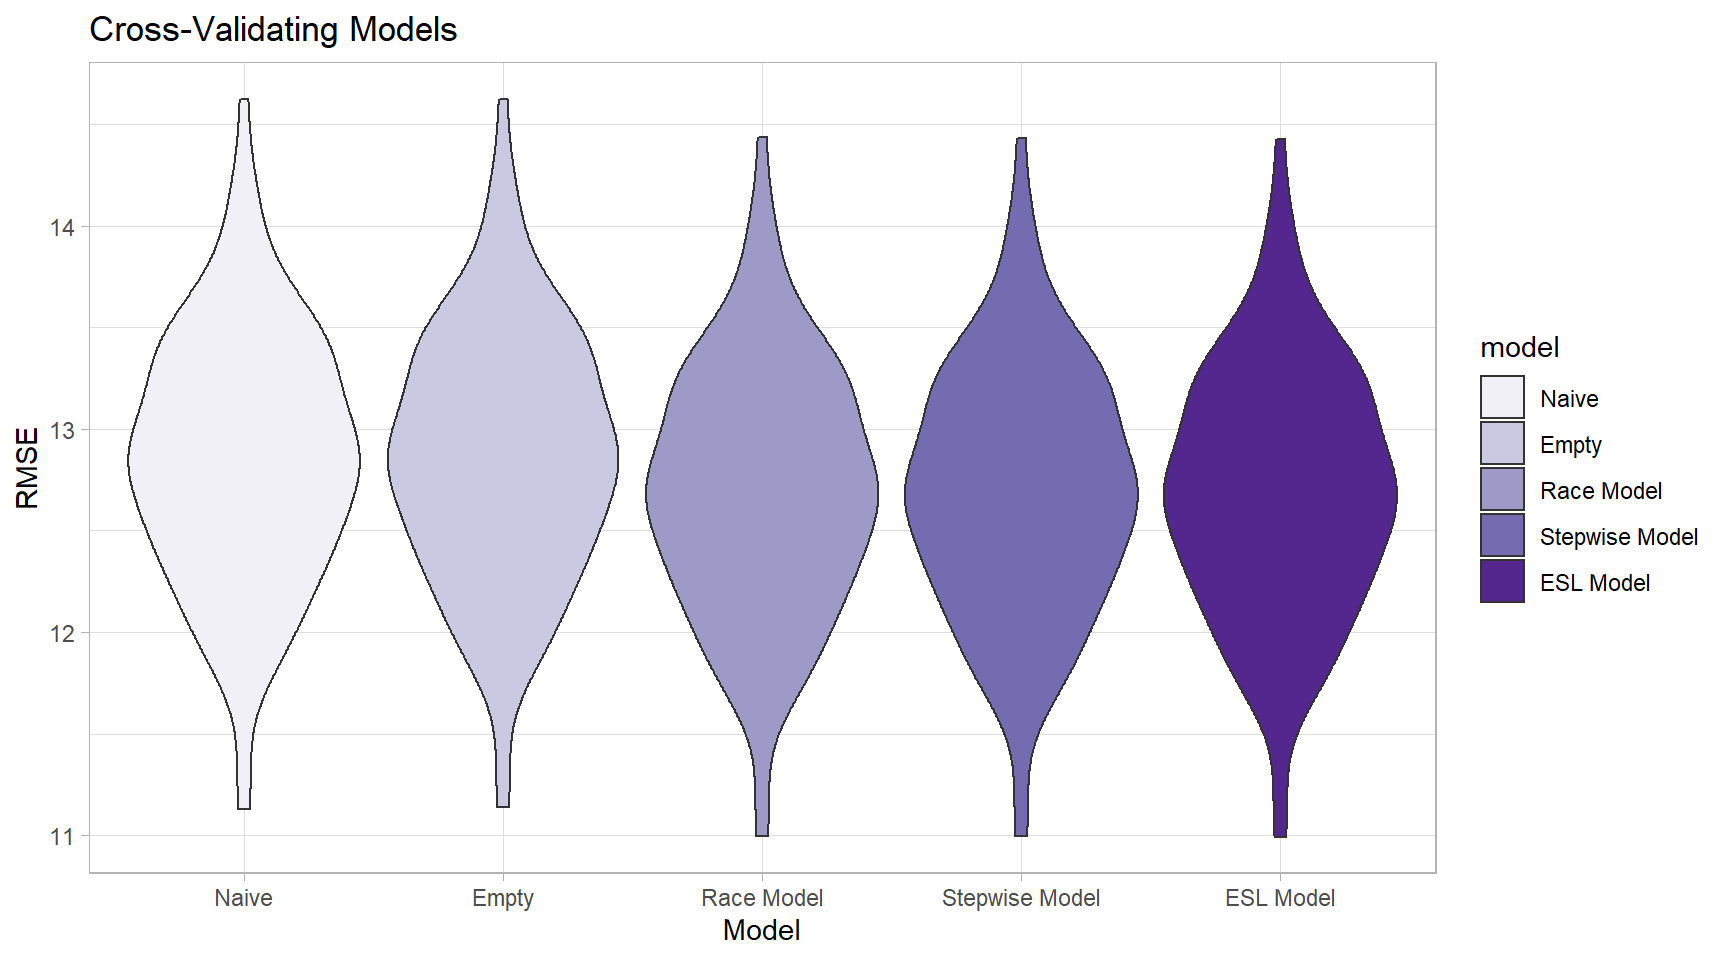
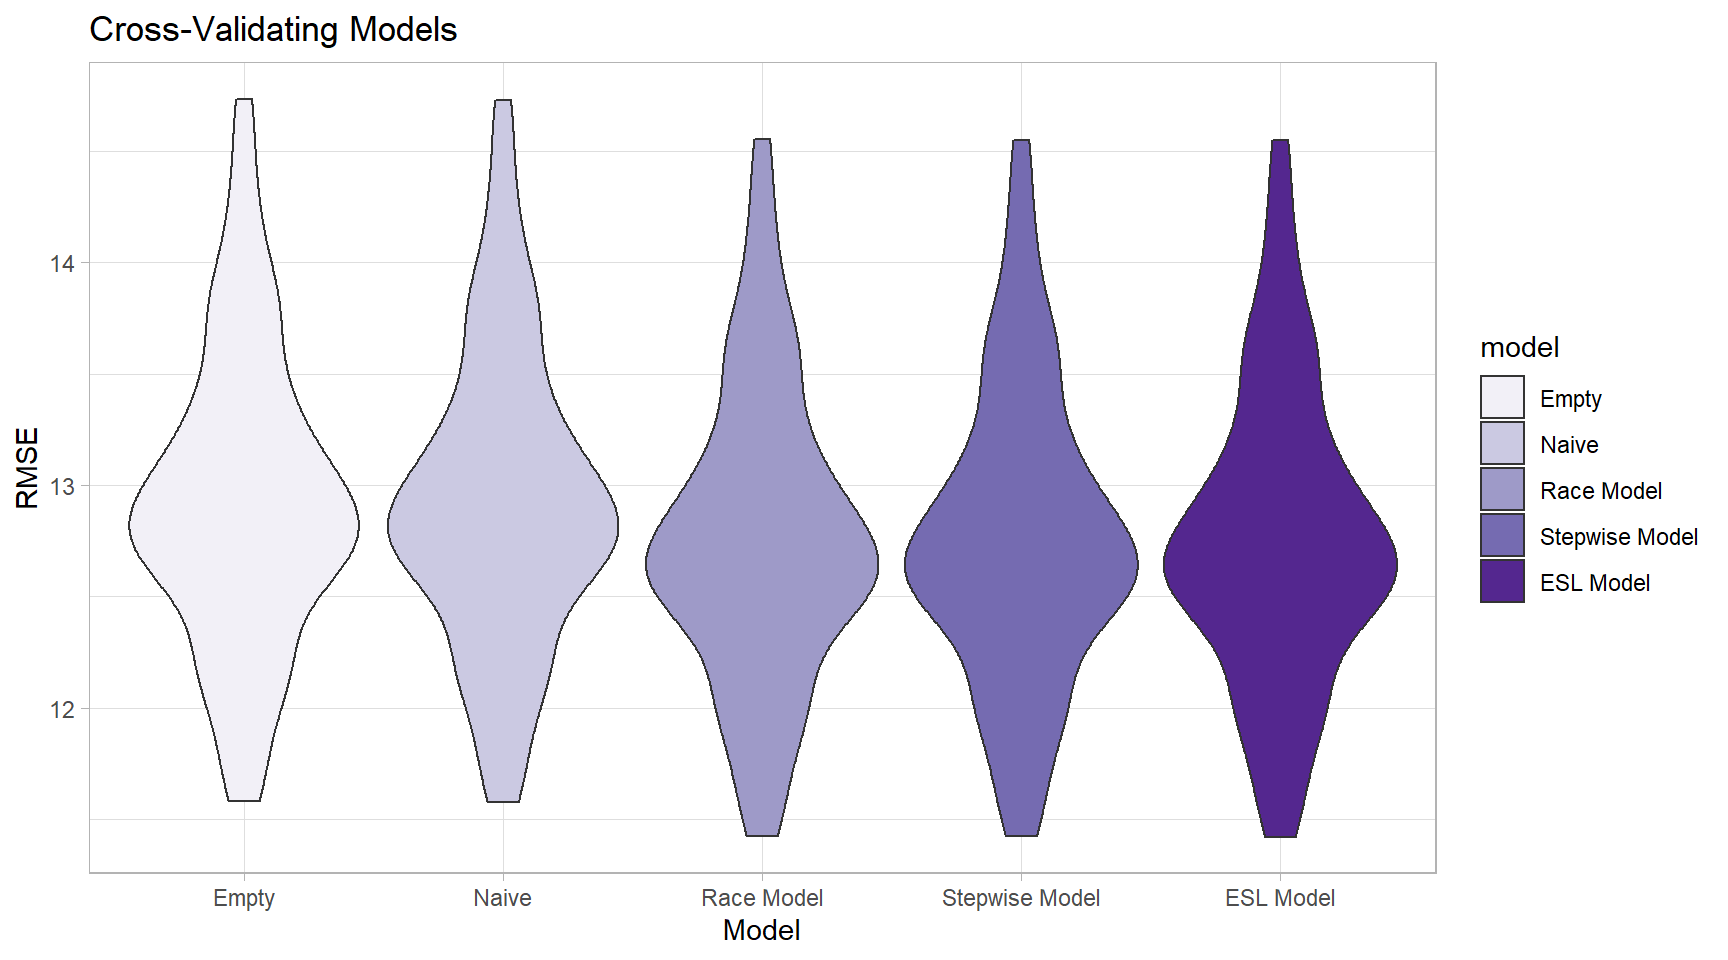
few changes including building site with model building section

diff --git a/model_building.html b/model_building.html
@@ -287,7 +287,7 @@ $(document).ready(function () {
   <a href="question_3_maps.html">What Predicts Eviction Rates?</a>
 </li>
 <li>
-  <a href="question_3.html">Model Building</a>
+  <a href="model_building.html">Model Building</a>
 </li>
       </ul>
       <ul class="nav navbar-nav navbar-right">
@@ -519,9 +519,11 @@ gee_stepper_o(full_fit, formula(full_fit)) ## customized function to automatical
 <div id="summary-of-models" class="section level2">
 <h2>Summary of models</h2>
 <p>To summarize, we will consider the following models to predict census tract-level eviction rates:</p>
-<p>Two hypothesized models: 1. A hypothesized model based primarily on percent ESL speakers [Equation 2, above] 2. A hypothesized model based primarily on independent effects of race/ethnicity percentages [Equation 3, above]</p>
-<ol start="3" style="list-style-type: decimal">
-<li>A model selected via a GEE-specific forward stepwise selection process</li>
+<p>Two hypothesized models:</p>
+<ol style="list-style-type: decimal">
+<li><p>A hypothesized model based primarily on percent ESL speakers [Equation 2, above]</p></li>
+<li><p>A hypothesized model based primarily on independent effects of race/ethnicity percentages [Equation 3, above]</p></li>
+<li><p>A model selected via a GEE-specific forward stepwise selection process</p></li>
 </ol>
 <p>In addition to these three models (1, 2, 3), we propose two baseline models:</p>
 <ol start="4" style="list-style-type: decimal">
@@ -584,7 +586,7 @@ step_model =
          data = joined_data_bklyn_nomissing, 
          id = geoid, 
          corstr = &quot;ar1&quot;)</code></pre>
-<pre class="r"><code>set.seed(12345)
+<pre class="r"><code>set.seed(2)
 
 ## creating test-training pairs
 model_data_cv =
@@ -629,13 +631,8 @@ model_data_cv =
 
  model_data_cv =
    model_data_cv %&gt;%
-   mutate(#rmse_empty_glm = map2_dbl(empty_glm1, test, ~rmse(model = .x, data = .y)),
-          #rmse_naive_glm = map2_dbl(naive_glm1, test, ~rmse(model = .x, data = .y)),
-          rmse_empty_gee = map2_dbl(empty, test, ~rmse(model = .x, data = .y)),
+   mutate(rmse_empty_gee = map2_dbl(empty, test, ~rmse(model = .x, data = .y)),
           rmse_naive_gee = map2_dbl(naive, test, ~rmse(model = .x, data = .y)),
-          #rmse_eng_glm = map2_dbl(glm_eng1, test, ~rmse(model = .x, data = .y)),
-          #rmse_race_glm = map2_dbl(glm_race1, test, ~rmse(model = .x, data = .y)),
-          #rmse_step_glm = map2_dbl(glm_step1, test, ~rmse(model = .x, data = .y)),
           rmse_eng_gee = map2_dbl(gee_eng, test, ~rmse(model = .x, data = .y)),
           rmse_race_gee = map2_dbl(gee_race, test, ~rmse(model = .x, data = .y)),
           rmse_step_gee = map2_dbl(gee_step, test, ~rmse(model = .x, data = .y)))
@@ -804,22 +801,22 @@ hyp_model_race %&gt;%
 <p>To make our risk estimates even more meaningful, we can interpret risk ratios for multiple units. For example, given the above, e^0.01887*10 = 1.2076; for each 10 percent increase in Brooklyn’s Black population, we expect the eviction rate to increase by 1.21 times, adjusting for other factors listed in the previous paragraph.</p>
 <p>   </p>
 </div>
-<div id="prediction-model-for-shiny-app" class="section level2">
-<h2>Prediction model (for Shiny app?)</h2>
+<div id="interactive-prediction-model" class="section level2">
+<h2>Interactive prediction model</h2>
+<p>We want to enable readers to more easily understand which predictors affect eviction rate and to what extents. Thus, using the race-based GEE model we selected from our five compared models, we created an interactive model-fitting tool that allows readers to adjust levels of various predictors to see the expected change in eviction rate (evictions per 100 renter-occupied households).</p>
+<p>Click here to access this model-building app.</p>
 <pre class="r"><code>## this works really well
-exp(predict(glm_step, newdata = data.frame(years_since_2010 = &#39;4&#39;,
-                                           neighborhood = &#39;Madison&#39;,
-                                           black = 90,
-                                           hisp = 40,
-                                           rent_burden = 35,
-                                           median_property_value = 100000,
-                                           median_gross_rent = 1000,
-                                           density = 50000,
-                                           poverty_rate = 60,
-                                           nhpi = 2,
-                                           pct_renter_occupied = 70,
-                                           aian = 2,
-                                           renter_occupied_households = 100)))</code></pre>
+exp(predict(hyp_model_race, newdata = data.frame(renter_occupied_households = 100,
+                                                 years_since_2010 = &#39;4&#39;,
+                                                 rent_burden = 35,
+                                                 density = 50000,
+                                                 black = 90,
+                                                 asian = 10,
+                                                 nhpi = 1,
+                                                 aian = 1,
+                                                 hisp = 40)))</code></pre>
+<pre><code>##        1 
+## 4.084648</code></pre>
 </div>
 </div>
 
